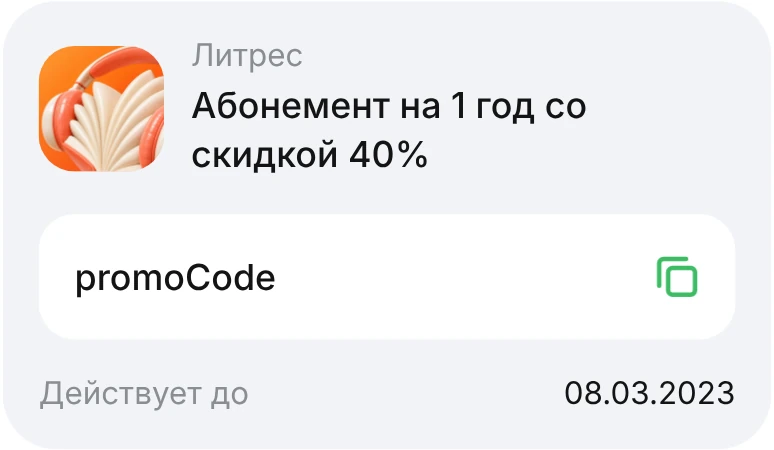
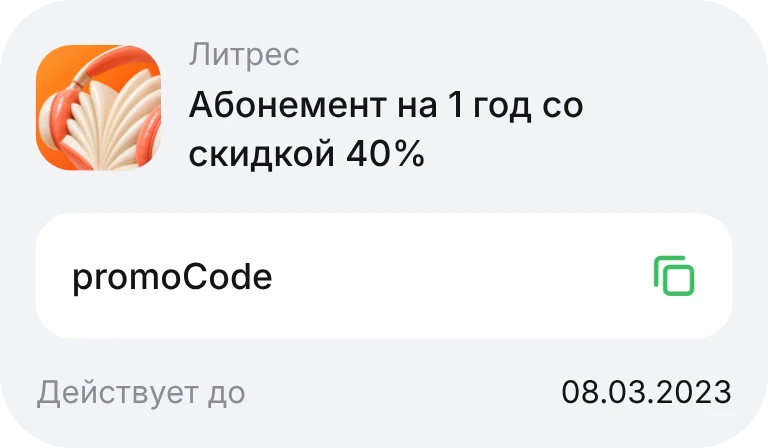
Обложки: без рамок и пометок, сетка не ложится на края; Ozon: колокольчик на экране звонит со звуковыми дугами
Claude-Session: https://claude.ai/code/session_01E1JC9TdbM8k87QqVfcVvmx

diff --git a/covers/ozon.html b/covers/ozon.html
@@ -7,23 +7,34 @@
 <link rel="stylesheet" href="kit.css">
 <style>
   .st { width: 2400px; height: 1600px; --lift: -18px; }
-  .ph img { width: 500px; height: 1083px; }
-  .l { left: 392px; top: 420px; animation: fl 9s ease-in-out infinite; }
-  .c { left: 976px; top: 230px; animation: fl 8s ease-in-out -2.5s infinite; z-index: 2; }
-  .r { left: 1552px; top: 420px; animation: fl 10s ease-in-out -5s infinite; }
-  @keyframes fl { 0%, 100% { transform: translateY(0); } 50% { transform: translateY(-10px); } }
-  .note { left: 196px; top: 236px; font-size: 96px; }
-  .arw { left: 0; top: 0; width: 2400px; height: 1600px; stroke-width: 7; }
-  @media (max-width:480px) { .note { left: 860px; top: 106px; } }
+  .ph > img { width: 500px; height: 1083px; }
+  .l { left: 392px; top: 420px; }
+  .c { left: 976px; top: 230px; z-index: 2; }
+  .r { left: 1552px; top: 420px; }
+  .c .scr { position: relative; width: 500px; height: 1083px; border-radius: 56px; overflow: hidden; }
+  /* Колокольчик из экрана звонит раз в несколько секунд, от него расходятся звуковые дуги */
+  .bell { position: absolute; left: 220px; top: 313.3px; width: 213.3px; height: 240px; transform-origin: 59% 19%; animation: ring 4.2s ease-in-out infinite; }
+  @keyframes ring {
+    0% { transform: rotate(0); } 4% { transform: rotate(15deg); } 9% { transform: rotate(-12deg); } 14% { transform: rotate(9deg); }
+    19% { transform: rotate(-6deg); } 24% { transform: rotate(3deg); } 29%, 100% { transform: rotate(0); } }
+  .snd { position: absolute; left: 0; top: 0; width: 500px; height: 1083px; overflow: visible; fill: none; stroke: #2C6BFF; stroke-width: 7; stroke-linecap: round; }
+  .snd path { opacity: 0; transform-box: fill-box; animation: snd 4.2s ease-out infinite; }
+  .snd .a2 { animation-delay: .12s; } .snd .b1 { animation-delay: .06s; } .snd .b2 { animation-delay: .18s; }
+  .snd .r1, .snd .r2 { transform-origin: 0% 50%; } .snd .b1, .snd .b2 { transform-origin: 100% 50%; }
+  @keyframes snd { 0% { opacity: 0; transform: scale(.7); } 6% { opacity: .9; } 26% { opacity: 0; transform: scale(1.25); } 100% { opacity: 0; } }
 </style>
 </head>
 <body>
 <div class="st" aria-hidden="true"><div class="lift">
   <div class="ph l"><img src="../img/41d44e65200e2fb6d3088a023b401ae3.jpg" alt=""></div>
-  <div class="ph c"><img src="../img/93a5fc65e936b5dbb0459a9d5eb6e4e0.jpg" alt=""></div>
+  <div class="ph c"><div class="scr">
+    <img src="oz/screen-c.jpg" alt="" style="width:500px;height:1083px">
+    <img class="bell" src="oz/bell.png" alt="">
+    <svg class="snd" viewBox="0 0 500 1083">
+      <path class="r1" d="M 448 386 Q 468 416 450 448"/><path class="r2 a2" d="M 472 368 Q 502 416 476 464"/>
+    </svg>
+  </div></div>
   <div class="ph r"><img src="../img/a13f3a3f3e07829e36e80949f75c028d.jpg" alt=""></div>
-  <div class="note" data-ru="одна выгода на экран" data-en="one benefit per screen"></div>
-  <svg class="arw" viewBox="0 0 2400 1600"><path class="d" pathLength="1" d="M 932 296 C 992 300, 1014 350, 1018 430 M 984 400 L 1018 436 L 1046 394"/><path class="m" pathLength="1" d="M 1590 168 C 1650 210, 1640 300, 1530 372 M 1546 336 L 1528 374 L 1570 382"/></svg>
 </div></div>
 <script src="kit.js"></script>
 <script>Cover({ w: 2400, h: 1600, keep: 1125, keepM: 1000 });</script>

diff --git a/covers/coupons.html b/covers/coupons.html
@@ -8,24 +8,20 @@
 <style>
   .st { width: 1200px; height: 800px; --lift: -8px; }
   /* Кусочки настоящего интерфейса из кейса, каждый на своей подложке экрана */
-  .pc { position: absolute; padding: 14px; border-radius: 28px; background: #fff;
-    box-shadow: 0 0 0 1px rgba(17, 24, 39, .05), 0 20px 46px rgba(17, 24, 39, .09), 0 4px 10px rgba(17, 24, 39, .04); }
-  .pc img { display: block; height: auto; border-radius: 16px; }
+  .pc { position: absolute; }
+  .pc img { display: block; height: auto; border-radius: 24px; box-shadow: 0 20px 46px rgba(17, 24, 39, .09), 0 4px 10px rgba(17, 24, 39, .04); }
   .cols   { left: 70px;  top: 112px; z-index: 2; animation: fa 10s ease-in-out infinite; }
-  .cols img { width: 343px; }
-  .banner { left: 56px;  top: 262px; z-index: 1; animation: fb 11s ease-in-out -4s infinite; padding: 0; overflow: hidden; }
+  .cols img { width: 371px; border-radius: 24px; }
+  .banner { left: 56px;  top: 262px; z-index: 1; animation: fb 11s ease-in-out -4s infinite; }
   .banner img { width: 362px; border-radius: 28px; }
   .grid   { left: 430px; top: 66px;  z-index: 3; animation: fa 9s ease-in-out -2s infinite; }
-  .grid img { width: 335px; border-radius: 10px; }
+  .grid img { width: 363px; border-radius: 24px; }
   .ticket { left: 830px; top: 104px; z-index: 2; animation: fb 10s ease-in-out -6s infinite; }
-  .ticket img { width: 289px; }
+  .ticket img { width: 300px; border-radius: 0; box-shadow: none; filter: drop-shadow(0 16px 30px rgba(17, 24, 39, .10)); }
   .promo  { left: 796px; top: 362px; z-index: 4; animation: fa 12s ease-in-out -7s infinite; }
-  .promo img { width: 335px; }
+  .promo img { width: 350px; border-radius: 0; box-shadow: none; filter: drop-shadow(0 16px 30px rgba(17, 24, 39, .10)); }
   @keyframes fa { 0%, 100% { transform: translateY(0); } 50% { transform: translateY(-7px); } }
   @keyframes fb { 0%, 100% { transform: translateY(0); } 50% { transform: translateY(-6px); } }
-  .note { left: 740px; top: 30px; font-size: 46px; z-index: 6; }
-  .arw { left: 0; top: 0; width: 1200px; height: 800px; stroke-width: 3.4; z-index: 6; }
-  @media (max-width:480px) { .note { left: 470px; top: 18px; } }
 </style>
 </head>
 <body>
@@ -35,8 +31,6 @@
   <div class="pc grid"><img data-src="cp/grid-{lg}.webp" alt=""></div>
   <div class="pc ticket"><img data-src="cp/ticket-{lg}.webp" alt=""></div>
   <div class="pc promo"><img data-src="cp/promo-{lg}.webp" alt=""></div>
-  <div class="note" data-ru="срок видно до покупки" data-en="expiry shown before buying"></div>
-  <svg class="arw" viewBox="0 0 1200 800"><path class="d" pathLength="1" d="M 776 84 C 772 120, 800 166, 846 184 M 826 186 L 848 186 L 846 164"/><path class="m" pathLength="1" d="M 868 66 C 904 96, 900 146, 874 176 M 868 154 L 872 178 L 894 168"/></svg>
 </div></div>
 <script src="kit.js"></script>
 <script>Cover({ w: 1200, h: 800 });</script>

diff --git a/covers/partners.html b/covers/partners.html
@@ -10,14 +10,11 @@
   /* Главный экран крупно и по центру, два второстепенных меньше, ниже и позади */
   .hero { left: 920px; top: 150px; z-index: 3; animation: fl 9s ease-in-out infinite; }
   .hero img { width: 560px; height: 1213px; }
-  .side { z-index: 1; padding: 14px; margin: -14px 0 0 -14px; border-radius: 60px; box-shadow: 0 0 0 2px rgba(17, 24, 39, .04), 0 20px 50px rgba(17, 24, 39, .07); }
+  .side { z-index: 1; border-radius: 46px; box-shadow: 0 20px 50px rgba(17, 24, 39, .08); }
   .side img { width: 420px; height: 910px; border-radius: 46px; }
   .sl { left: 560px; top: 430px; animation: fl 11s ease-in-out -4s infinite; }
   .sr { left: 1420px; top: 430px; animation: fl 10s ease-in-out -7s infinite; }
   @keyframes fl { 0%, 100% { transform: translateY(0); } 50% { transform: translateY(-10px); } }
-  .note { left: 150px; top: 250px; font-size: 96px; z-index: 4; }
-  .arw { left: 0; top: 0; width: 2400px; height: 1600px; stroke-width: 7; z-index: 4; }
-  @media (max-width:480px) { .note { left: 900px; top: 18px; } }
 </style>
 </head>
 <body>
@@ -25,8 +22,6 @@
   <div class="ph side sl"><img src="../img/0d5679995f9eaf34b295cbef1297f47b.jpg" alt=""></div>
   <div class="ph side sr"><img src="../img/3c32d4f62c284b48332d3a121f0471fe.jpg" alt=""></div>
   <div class="ph hero"><img src="../img/51dd56310cf1be0853f88c2bf66ee6c8.jpg" alt=""></div>
-  <div class="note" data-ru="категории на виду" data-en="categories in sight"></div>
-  <svg class="arw" viewBox="0 0 2400 1600"><path class="d" pathLength="1" d="M 720 364 C 820 430, 890 600, 948 790 M 900 772 L 950 796 L 962 742"/><path class="m" pathLength="1" d="M 902 96 C 820 300, 840 640, 948 790 M 900 772 L 950 796 L 962 742"/></svg>
 </div></div>
 <script src="kit.js"></script>
 <script>Cover({ w: 2400, h: 1600 });</script>

diff --git a/covers/kit.css b/covers/kit.css
@@ -9,7 +9,7 @@ body {
     linear-gradient(90deg, rgba(17, 17, 17, .045) 1px, transparent 1px),
     linear-gradient(180deg, #FBFBFC 0%, #F1F2F4 100%);
   background-size: 48px 48px, 48px 48px, 100% 100%;
-  background-position: center -1px, center -1px, 0 0;
+  background-position: calc(50% + 24px) 24px, calc(50% + 24px) 24px, 0 0;  /* линии сетки не ложатся на края карточки */
 }
 .st { position: absolute; left: 0; top: 0; transform-origin: 0 0; }
 
@@ -17,10 +17,9 @@ body {
 .lift { position: absolute; inset: 0; transition: transform .6s cubic-bezier(.2, .8, .2, 1); }
 .hov .lift { transform: translateY(var(--lift, -16px)); }
 
-/* Телефон: белая рамка, мягкая тень */
-.ph { position: absolute; padding: 16px; margin: -16px 0 0 -16px; border-radius: 72px; background: #fff;
-  box-shadow: 0 0 0 2px rgba(17, 24, 39, .05), 0 30px 70px rgba(17, 24, 39, .10), 0 8px 18px rgba(17, 24, 39, .05); }
-.ph img { display: block; border-radius: 56px; object-fit: cover; object-position: top center; background: #fff; }
+/* Экран без рамок: скруглённые углы и мягкая тень */
+.ph { position: absolute; border-radius: 56px; box-shadow: 0 30px 70px rgba(17, 24, 39, .10), 0 8px 18px rgba(17, 24, 39, .05); }
+.ph > img, .ph .scr > img:first-child { display: block; border-radius: 56px; object-fit: cover; object-position: top center; background: #fff; }
 
 /* Пометка дизайнера: синий рукописный текст и стрелка, прописываются один раз */
 .note { position: absolute; z-index: 5; font-family: 'Caveat Cover', Caveat, cursive; font-weight: 600; color: #2779FF; white-space: nowrap; line-height: 1;
